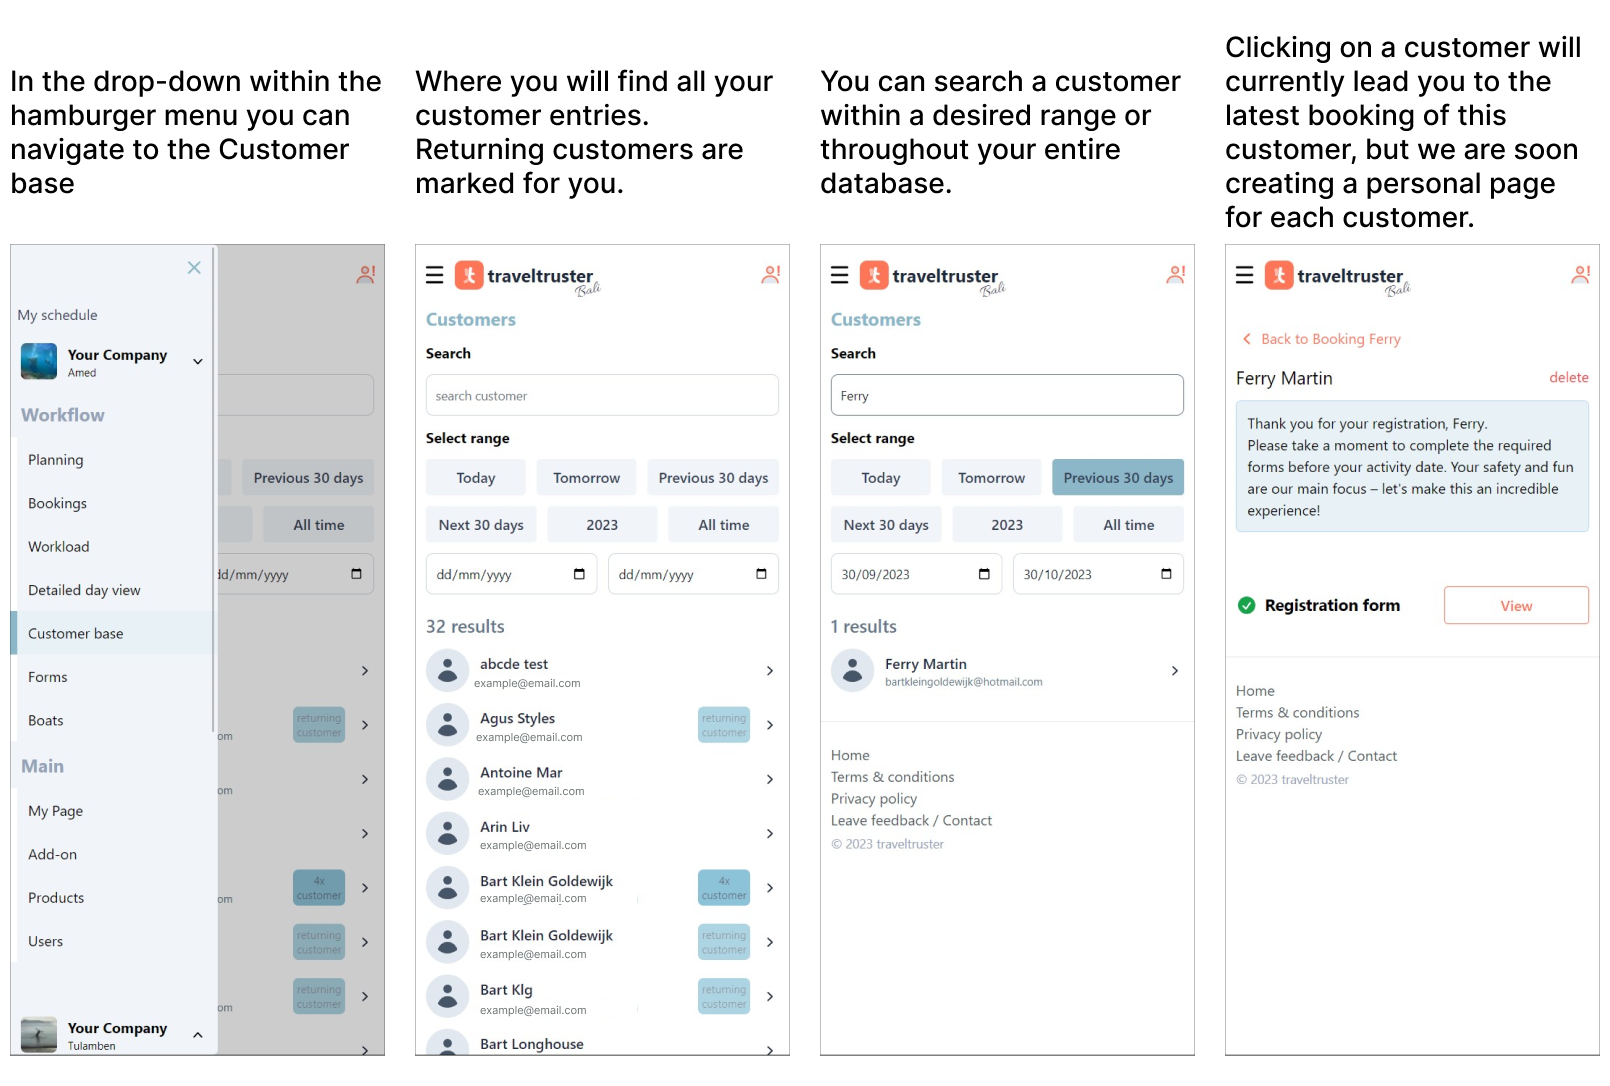
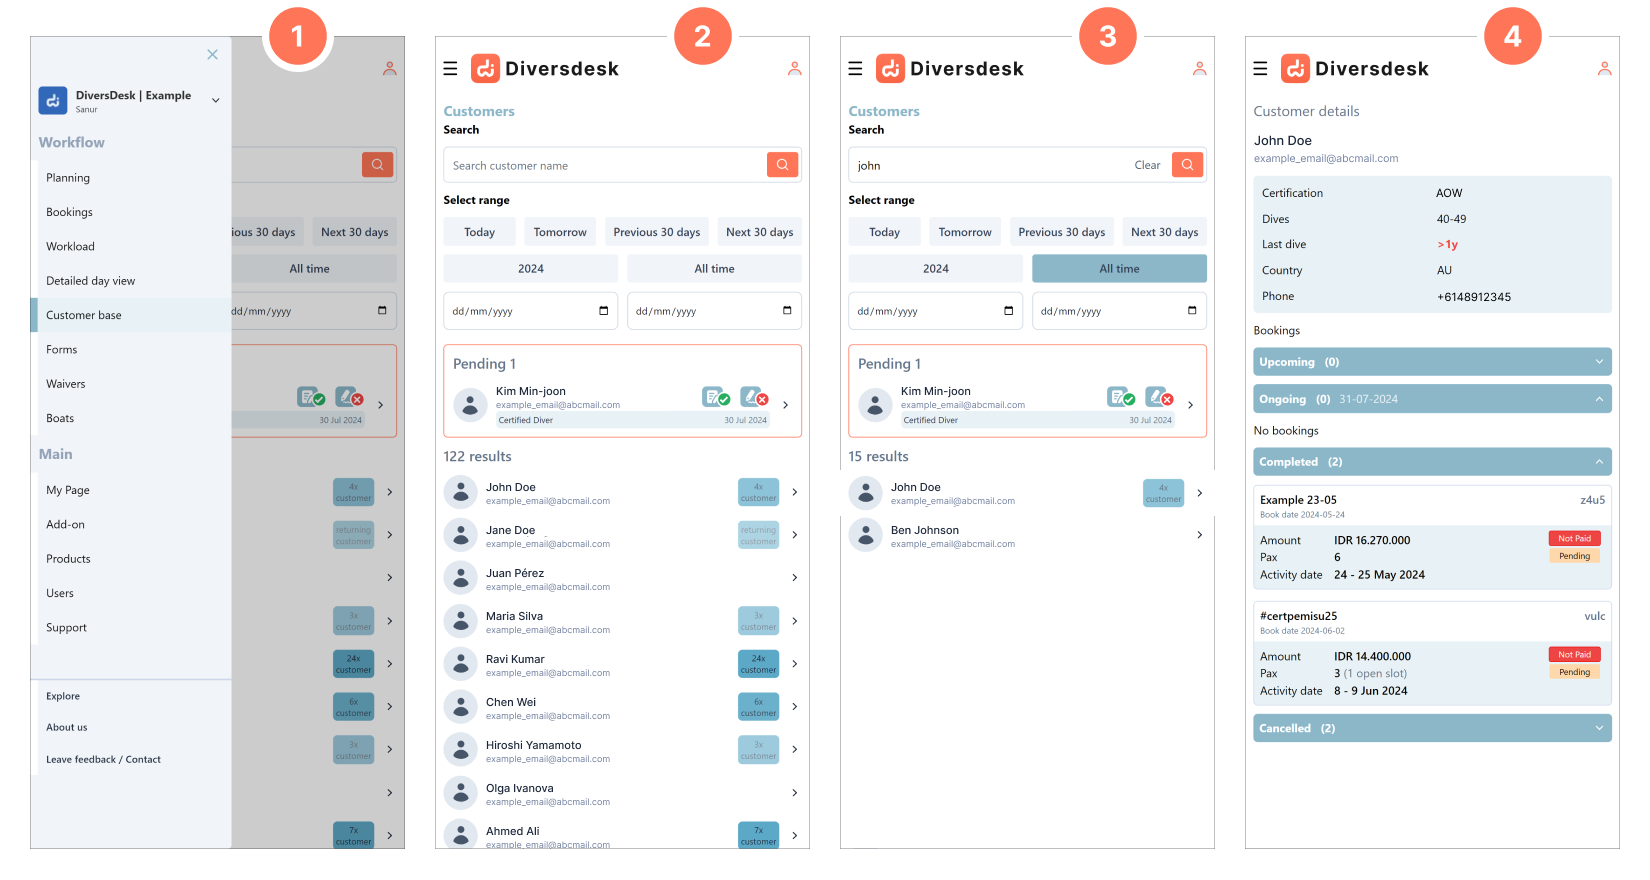
updated documentation customer base, add to homescreen and customer onbaording

diff --git a/diversdesk/src/styles/starlight.css b/diversdesk/src/styles/starlight.css
@@ -191,3 +191,35 @@ article.card {
 .tab-space {
     margin-left: 2em; /* Adjust the value as needed */
 }
+
+.thumbnail {
+    cursor: pointer;
+    max-width: 100%;
+    transition: transform 0.2s;
+  }
+  
+  .thumbnail:hover {
+    transform: scale(1);
+  }
+  
+  .enlarged-image-container {
+    position: fixed;
+    top: 0;
+    left: 0;
+    width: 100%;
+    height: 100%;
+    background-color: rgba(0, 0, 0, 0.8);
+    display: none;
+    justify-content: center;
+    align-items: center;
+    z-index: 1000;
+    padding: 20px; /* Add some padding to prevent touching edges */
+    box-sizing: border-box; /* Include padding in the total size */
+  }
+  
+  .enlarged-image {
+    max-width: 80%; /* Adjust as needed to ensure it fits well */
+    max-height: 80%; /* Adjust as needed */
+    box-shadow: 0px 4px 15px rgba(0, 0, 0, 0.5); /* Optional: Add shadow for better visibility */
+  }
+  

diff --git a/diversdesk/src/styles/starlight_main.css b/diversdesk/src/styles/starlight_main.css
@@ -60,3 +60,4 @@ select {
     transform: translateX(0.25rem);
     transition: transform 300ms cubic-bezier(0.4, 0, 0.2, 1);
 }
+

diff --git a/diversdesk/src/content/docs/user_manual/customer_onboarding.md b/diversdesk/src/content/docs/user_manual/customer_onboarding.md
@@ -3,31 +3,33 @@ title: Customer Onboarding Methods
 description: Ways to onboard your customer
 ---
 
-<!-- Diversdesk stands out in its incredable flexible onboarding methods.
+### Intro to Diversdesk's onboarding flexibility.
 
-As a dive-center you can choose to:
-- **1** Register customers through a created booking
-- **2** Allow a stand-alone registeration through a customizable/generic onboarding page
+From a broad perspective, you could say that we support two main customer onboarding methods:
+1. **1. Direct Booking** <br>
+This method involves creating a booking and sharing a booking URL with your customer. The customer can immediately register and pay (if payment is added), and their registration will automatically appear in your calendar and dashboard.
 
-## Register customers through a created booking -->
-After the creation of an activity, the customer(s) can register themselves through a unique booking URL. Next to this we give the freedom for you to register the customer (partly or complete) for a personal approach.
+2. **2. Self-Registration (or Generic Registration)** <br>
+Customers register through a so-called "Generic Customer Registration Page," which holds all the onboarding methods you've marked as "Selectable for Participant." Using this method, you can easily allow any walk-in customer to register through a QR code in your dive center, even if no one on location has access to your Diversdesk account. Self-registered customers will appear as pending in your environment and can be connected to a booking at a later stage.
 
-From here there are multiple onboarding methods available. You can:
-</br>**1.** [Share the Booking URL](/user_manual/customer_onboarding/#1-share-the-booking-url)
-</br>**2.** [Send a Personalized email](/user_manual/customer_onboarding/#2-send-a-personalized-email)
-</br>For existing customers you can select an existing registration from your database: 
-</br>**3.** [Select an Existing registration](/user_manual/customer_onboarding/#3-select-an-existing-registration)
-<!-- - **4.** [Generic onboarding method](/user_manual/customer_onboarding/#4-register-through-a-generic-registration-page) -->
+Both methods offer a variety of features to enhance the onboarding experience, which we will dive into below.
+
+## 1. Direct Booking
+By adding an activity on the Planner page, and thereby creating a new booking, you can follow these paths to onboard your customer:
+1. **1.1.** [Share the Booking URL](/user_manual/customer_onboarding/#1-share-the-booking-url) <br>
+This is the most efficient way of onboarding new customers, since basically everything is taken care of for you the moment you share the Booking URL with your customer. 
+2. **1.2.** [Send a Personalized email](/user_manual/customer_onboarding/#2-send-a-personalized-email)
+Introduced for centers that want to give that extra personal touch and prefill certain data based on conversations you've had with your customer prior to making a sale. 
+3. **1.3.** [Select an Existing registration](/user_manual/customer_onboarding/#3-select-an-existing-registration)
+Existing registrations can easily be connected after the booking is created.
 
 Each method is described in the appropriate steps below.
 
-## 1. Share the Booking URL
-
+### 1.1. Share the Booking URL
 ![Share the booking url with your customer](/images/Share_a_booking_URL_1.png)
 ![Share the booking url with your customer part 2](/images/Share_a_booking_URL_2.png)
 
-## 2. Send a Personalized Email
-
+### 1.2. Send a Personalized Email
 After creating an activity, a user with manager rights can fill the desired fields of the registration form. 
 You can fill up all the desired fields on behalf of the customer, or simply stick to the bare minimum. e.g. Name and email.
 
@@ -36,7 +38,7 @@ Create a custom registration form without mandatory fields. This will give you t
 :::
 ![Register customer step 1a](/images/Register_customer_step1a.png)
 
-## 3. Select an Existing Registration 
+### 1.3. Select an Existing Registration 
 An existing registration can also be found through the Register here button within the booking.
 ![Register here button](/images/Register_here_button.svg)
 
@@ -45,4 +47,19 @@ For returning customers you can select an existing registration from your databa
 
 ![Register customer steop 1b](/images/Register_customer_step1b.png)
 
-<!-- ## 4. Register Through a Generic Registration Page -->
+## 2. Self-Registrations (Generic Onboarding)
+
+A customer can select one of the options you have created on the "Generic Customer Registration Page." Depending on the onboarding journey they choose on this page, the appropriate paperwork is presented to them.
+
+1. **1.** A customer selects one of the options that best descibes them.
+2. **2.** They can immediately begin filling out the necessary paperwork for their chosen Onboarding Journey. 
+3. **3.** After submitting the registration form, the customer will receive an email with information. 
+4. **4.** After completing the registration form, the waivers associated with this onboarding journey must also be signed.
+
+![Register customer steop 1b](/images/generic_onboarding.png)   
+
+Your customer will now appear in your environment as pending, allowing you to connect them to a booking.
+
+:::tip[Note]
+The Generic Onboarding method is ideal for accommodating large walk-in groups, as it can completely eliminate waiting times. It's also a great solution when someone managing the dive center doesn't have access rights to your Diversdesk environment or isn't comfortable with digital tools. From afar, you can easily manage and connect these customers to the appropriate activities.
+:::

diff --git a/diversdesk/src/content/docs/user_manual/setup_your_environment.md b/diversdesk/src/content/docs/user_manual/setup_your_environment.md
@@ -45,7 +45,7 @@ Editing a product can be done by clicking on the 'Edit' hyperlink within the act
 There is a range of fields where you can input all the information and details available for this activity, and connect any add-ons available for this particular product.
 
 ## Add-ons
-On the 'Add-on' page, accesable thought the hamburger menu, you can enter or edit your add-ons.
+On the "Add-on" page, accessible through the hamburger menu, you can enter or edit your add-ons.
 
 During the creation of an add-on, you need to specify if this add-on is valid:
 - Per Day 
@@ -55,14 +55,16 @@ During the creation of an add-on, you need to specify if this add-on is valid:
 
 ![Add-ons page overview](/images/Add-on_page.png)
 
-Once an add-on is created, it can be connected to one or more of your products. This can be done through the product edit page.
+Once an add-on is created, it can be connected to one or more of your products. This can be done through the 'Product Edit Page'.
 ![Edit an activity](/images/Connecting_an_add_on.png)
 
+If you create an add-on from within the product you're editing, the "Add-on Page" will open in a new tab. Here, you can create or edit the add-ons as desired. Once finished, you can close this tab and continue working on the "Product Edit Page." Pressing refresh within your "Product Edit Page" will display the newly added or edited add-ons.
+
 :::tip[Tip] 
-Later on, you can always navigate back to the add-on page to quickly see which products an existing add-on is connected to. Clicking on one of the product cards will immediately lead you to the product page.
+Later, you can always navigate back to the "Add-on Page" to quickly see which products an existing add-on is connected to. Clicking on one of the product cards will immediately take you to the "Product Page."
 :::
 ![Add-ons page overview](/images/Connected_products_to_an_add-on.png)
 
-## Fleet
+<!-- ## Fleet -->
 
 

diff --git a/diversdesk/src/content/docs/user_manual/customer_base.md b/diversdesk/src/content/docs/user_manual/customer_base.md
@@ -5,4 +5,31 @@ description: Customer base
 
 Through the customer base you can keep track of your new and returning customers.
 
-![Customer base](/images/Customer_base.png)
+1. **1.** In the drop-down within the hamburger menu you can navigate to the Customer base
+2. **2** Where you will find all your customer entries. Returning customers are  are clearly indicated through a badge behind the customer's name and email. .
+3. **3.** You can search a customer within a desired range or throughout your entire database.
+4. **4.** Clicking on a customer will lead you to the "Customer Page," where you can find all of this customer's previous, ongoing, and upcoming bookings. If desired, you can directly jump to a specific booking by clicking on the corresponding "Booking Card."
+
+<!-- ![Customer base](/images/Customer_base.png)  -->
+
+<img src="/images/Customer_base.png" alt="Thumbnail" class="thumbnail" onclick="enlargeImage(this)">
+
+<div id="enlargedImageContainer" class="enlarged-image-container" onclick="closeImage()">
+  <img id="enlargedImage" src="" alt="Enlarged View" class="enlarged-image">
+</div>
+
+
+<script>
+  function enlargeImage(img) {
+    const enlargedImageContainer = document.getElementById('enlargedImageContainer');
+    const enlargedImage = document.getElementById('enlargedImage');
+    
+    enlargedImage.src = img.src; // You can also use a different source for high-res
+    enlargedImageContainer.style.display = 'flex';
+  }
+
+  function closeImage() {
+    const enlargedImageContainer = document.getElementById('enlargedImageContainer');
+    enlargedImageContainer.style.display = 'none';
+  }
+</script>

diff --git a/diversdesk/src/content/docs/articles/add_to_homescreen.md b/diversdesk/src/content/docs/articles/add_to_homescreen.md
@@ -1,8 +1,17 @@
 ---
-title: Add an hyperlink to your mobile's homescreen
+title: Adding an Icon to Your Mobile Home Screen
 description: A guide how to add a hyperlink icon to your mobile phone's homescreen
 ---
 
-You will soon read here how to add an icon on you and your staff their phones that directly leads you to your management software. Easily through one click.
+Adding an icon (website shortcut) to your homescreen is a great way to swiftly jump to you planner at any given time. 
+On Iphone this is easily done through 
 
-![Create custom form2](/images/iPhone.png)
+:::note[Note]
+This example is made on an iPhone using a Safari browser.
+::: 
+1. **1.** Navigate to your planner hub and press the export button at the bottom of your browser
+2. **2.** Scroll up and press 'Add to Home Screen'
+3. **3.** Change the name to your liking
+4. **4.** Voila. Your planner is now just 1 click away
+
+![Create custom form2](/images/add_icon_to_homescreen_iphone.png)
